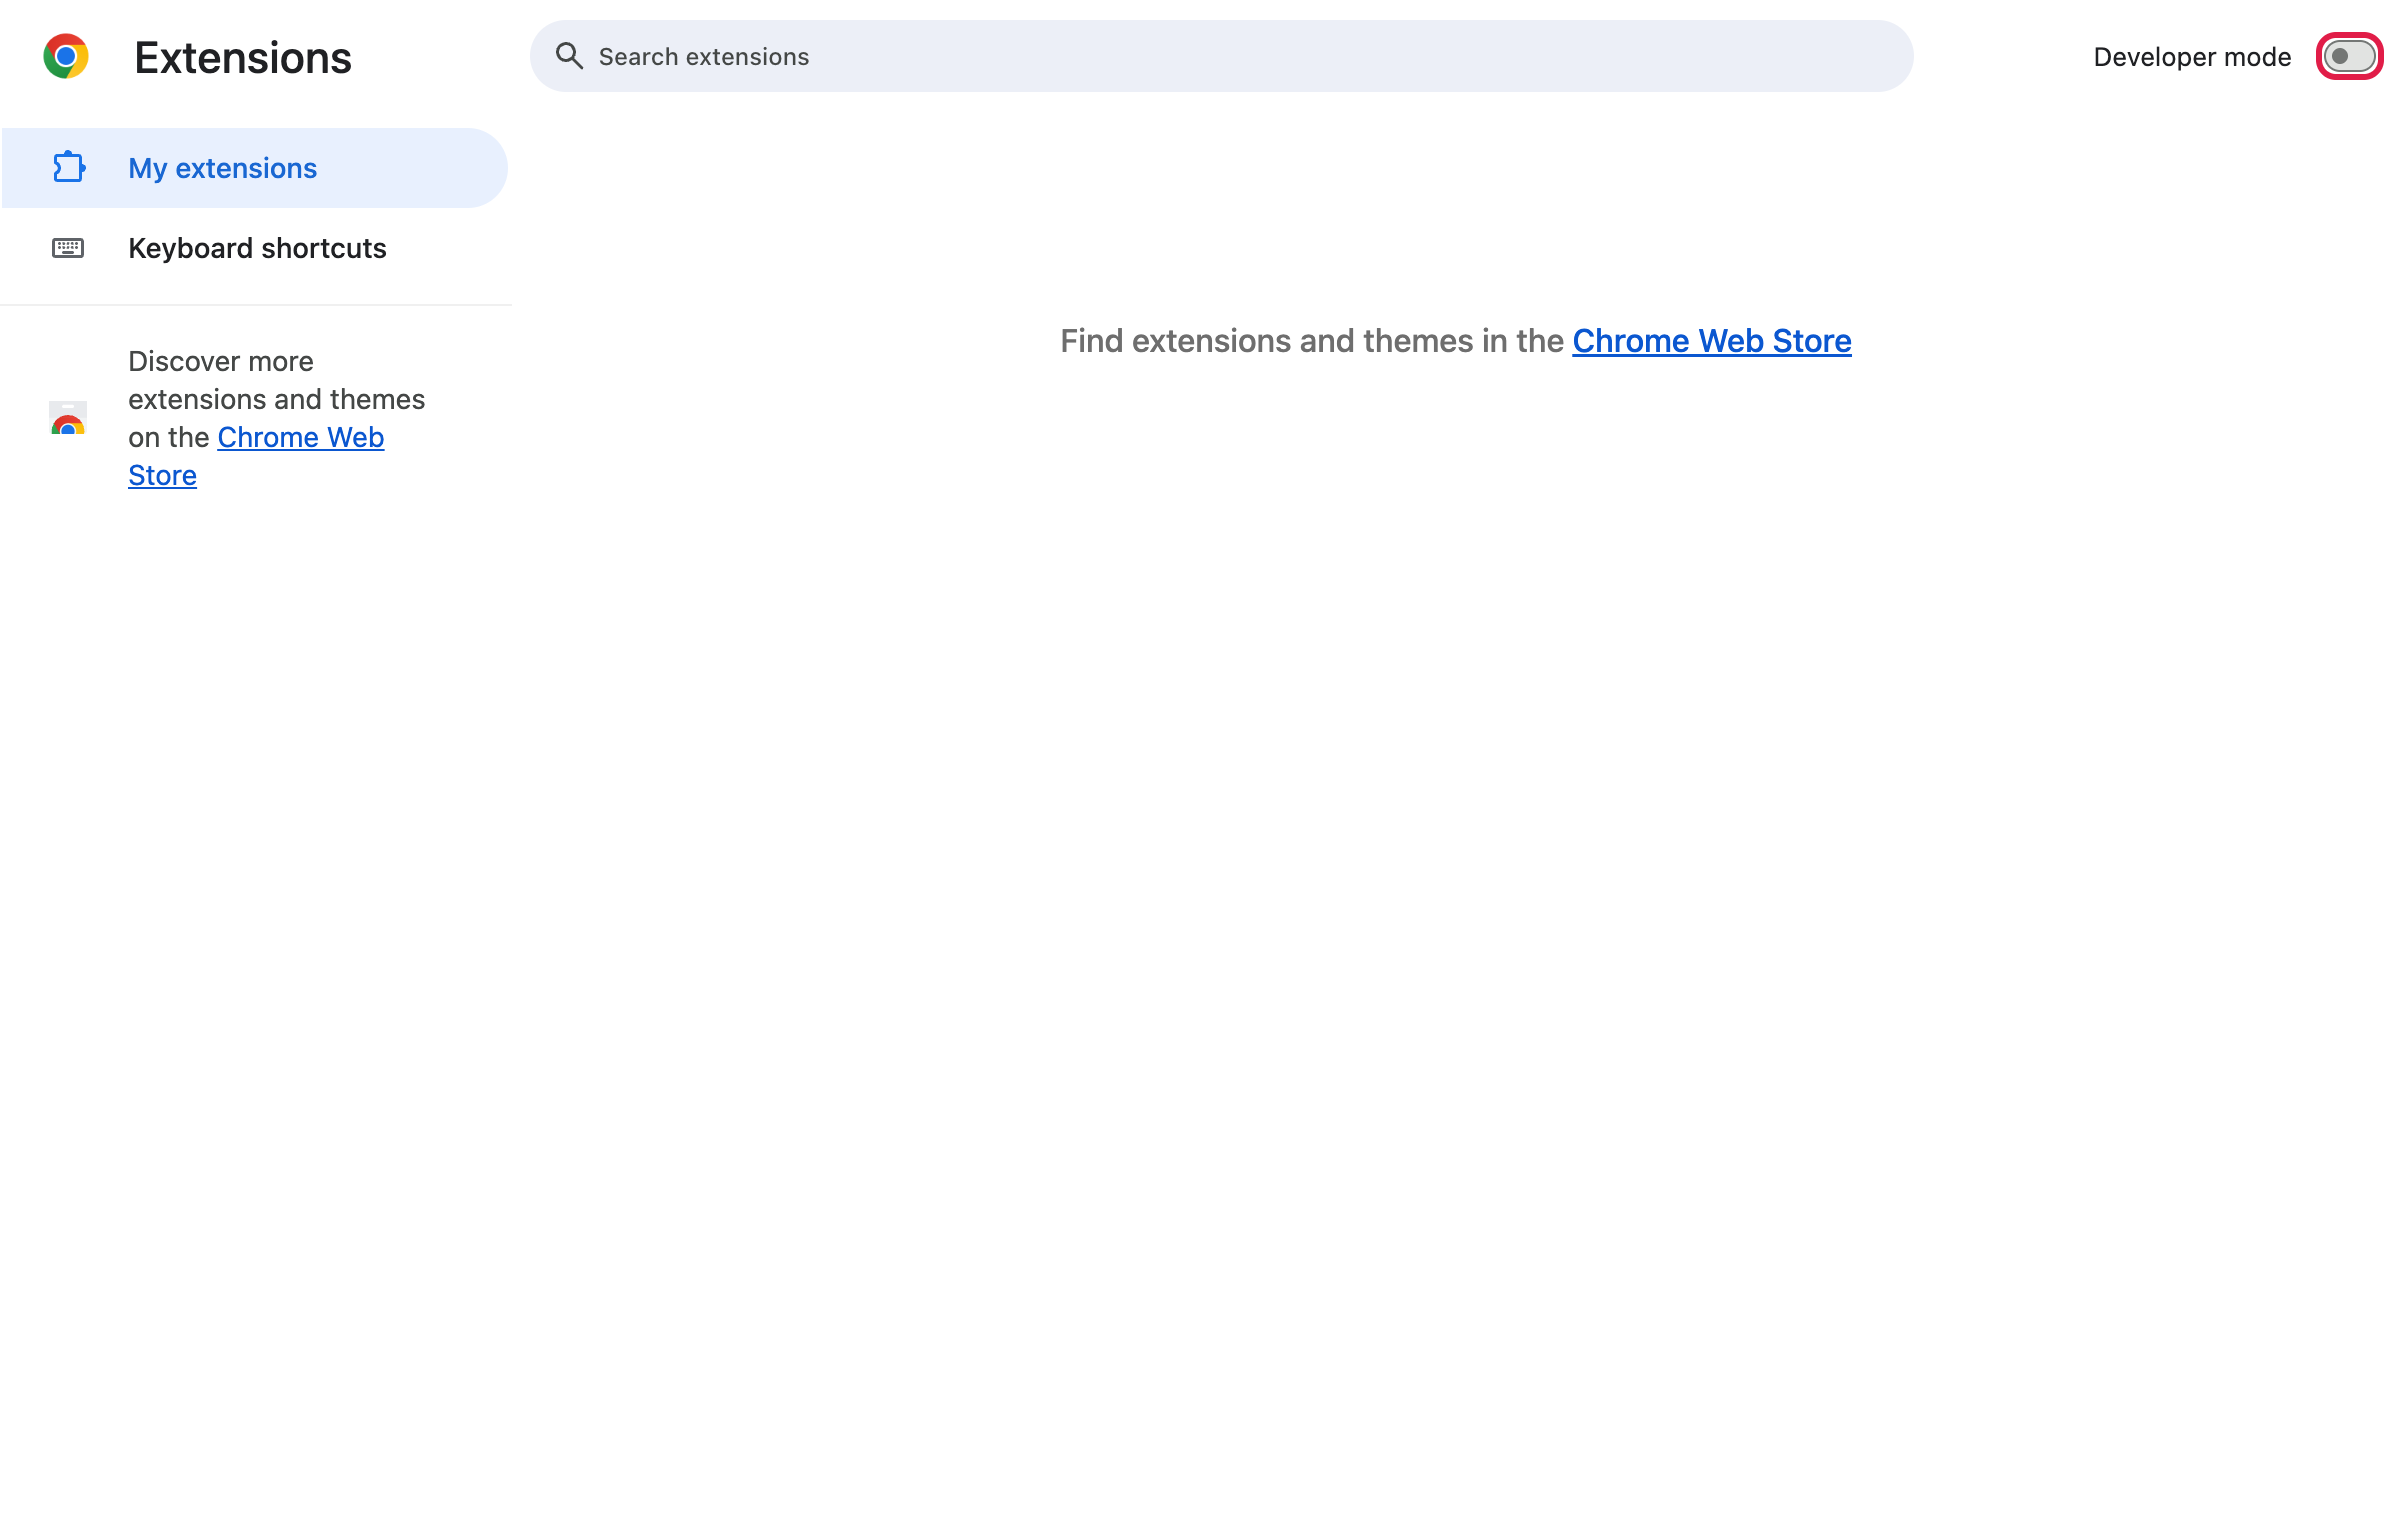
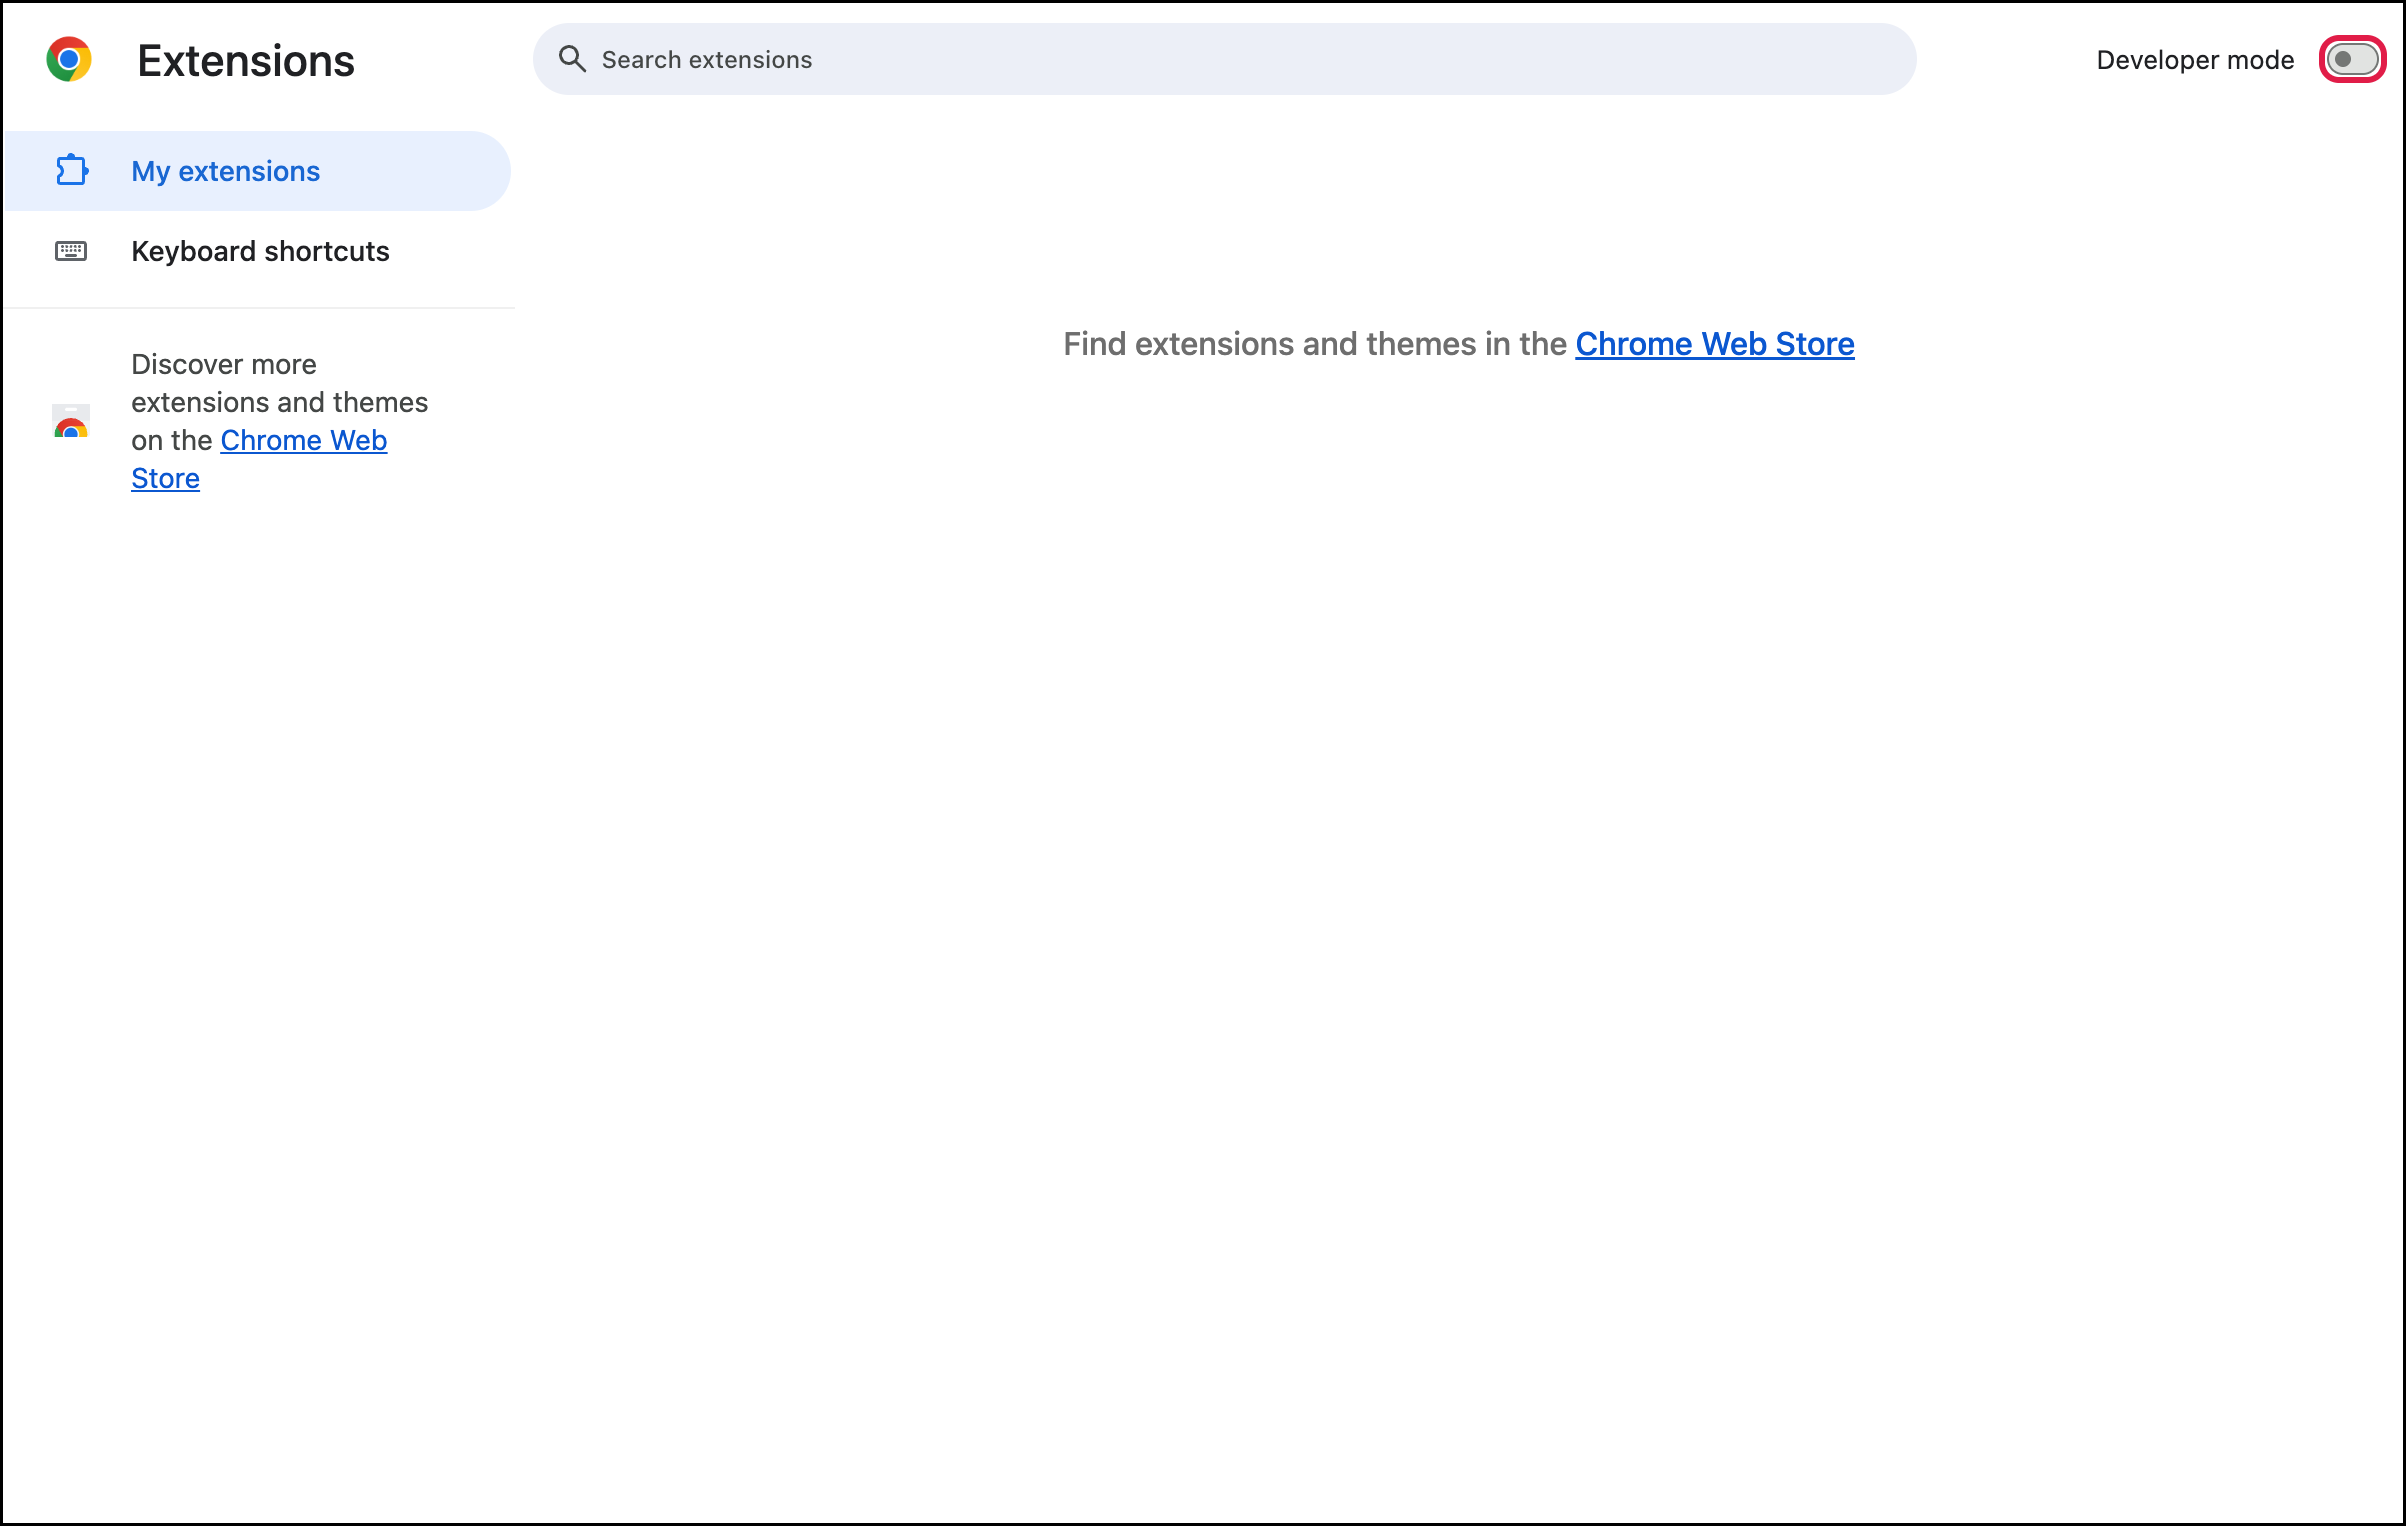
docs: 📝 add a table of contents to the README and borders to the install screenshots
- scripts/readme-toc.mjs writes a table of contents with every heading (h1 to
  h6) between markers at the top of the README (npm run readme-toc).
- The install screenshots get a black border that shows as 1px at the width the
  README displays them; GitHub strips CSS from README images, so the border is
  part of the PNG (scripts/add-border.mjs, also applied by npm run screenshots).

diff --git a/README.md b/README.md
@@ -1,5 +1,33 @@
 # Browse Resume AI
 
+<!-- toc -->
+
+**Contents**
+
+- [Browse Resume AI](#browse-resume-ai)
+  - [Requirements](#requirements)
+  - [Install](#install)
+    - [1. Get the code and install the local component](#1-get-the-code-and-install-the-local-component)
+    - [2. Turn on Developer mode](#2-turn-on-developer-mode)
+    - [3. Load the extension](#3-load-the-extension)
+    - [4. Check the extension ID](#4-check-the-extension-id)
+    - [5. Check the settings](#5-check-the-settings)
+    - [6. Summarize a page](#6-summarize-a-page)
+    - [Update](#update)
+    - [Why a local component?](#why-a-local-component)
+  - [Extension ID](#extension-id)
+  - [Privacy](#privacy)
+  - [Permissions](#permissions)
+  - [For AI agents](#for-ai-agents)
+    - [What this is](#what-this-is)
+    - [Install](#install-1)
+    - [Rules](#rules)
+    - [Troubleshooting](#troubleshooting)
+  - [Development](#development)
+  - [Licence](#licence)
+
+<!-- tocstop -->
+
 A Chrome extension that summarizes the article in the current tab with one click, using the AI
 subscription you already pay for: Claude (through Claude Code) or ChatGPT (through Codex). No API
 keys, no pay-per-use billing.
@@ -216,6 +244,8 @@ to configure.
   prebuilt extension in the repository stays current. If the change is visible in the screenshots,
   run `npm run screenshots` (it opens a separate Chrome with a temporary profile) and commit
   `media/install` too.
+- After adding, renaming or removing a heading in this README, run `npm run readme-toc` to update
+  the table of contents at the top.
 
 ### Troubleshooting
 
@@ -235,6 +265,7 @@ npm run dev       # Chrome with the extension loaded and live reload
 npm run build     # production build in .output/chrome-mv3
 npm run dist      # build and copy it to dist/chrome, the prebuilt folder kept in the repository
 npm run screenshots  # regenerate media/install/*.png (needs the native host installed)
+npm run readme-toc   # regenerate the table of contents at the top of this README
 npm test          # unit tests (extension and native host)
 npm run compile   # type check
 ```
